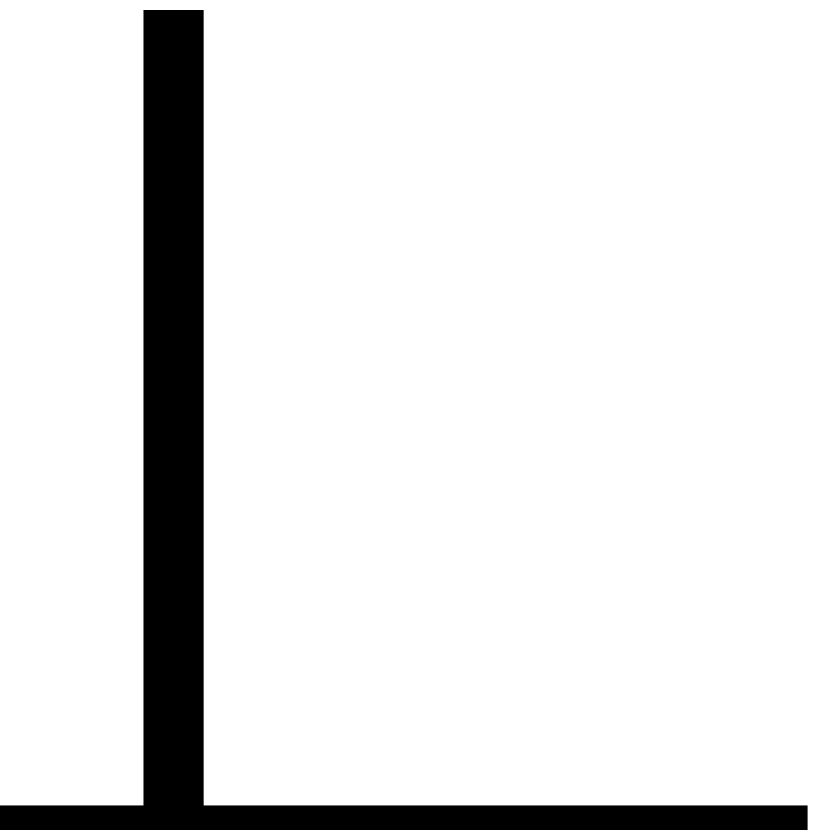
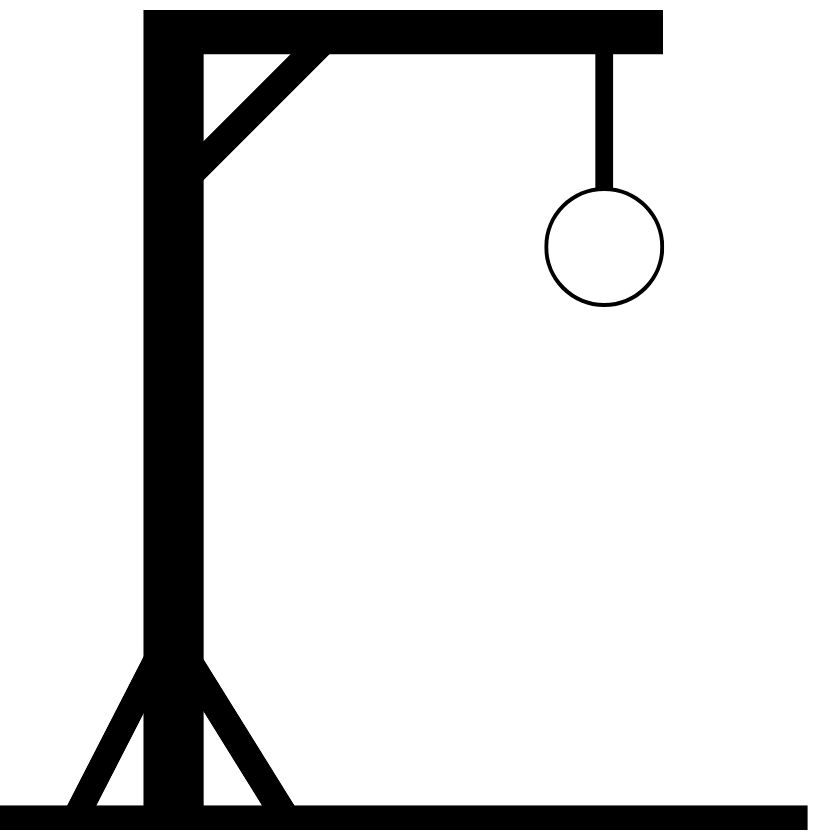
Version con los scripts

diff --git a/scripts/script.js b/scripts/script.js
@@ -1,0 +1,77 @@
+const hangmanImage = document.querySelector(".hangman-box img");
+const wordDisplay = document.querySelector(".word-display");
+const guessesText = document.querySelector(".guesses-text b");
+const keyboardDiv = document.querySelector(".keyboard");
+const gameModal = document.querySelector(".game-modal");
+const playAgainBtn = document.querySelector(".play-again");
+
+let currentWord, correctLetters, wrongGuessCount;
+const maxGuesses = 6;
+
+const resetGame = () => {
+  //Funcion que le hace reset al juego y su interfaz
+  correctLetters = [];
+  wrongGuessCount = 0;
+  hangmanImage.src = `imagenes/${wrongGuessCount + 1}.jpg`;
+  guessesText.innerText = `${wrongGuessCount} / ${maxGuesses}`;
+  keyboardDiv.querySelectorAll("button").forEach(btn => btn.disabled = false);
+  wordDisplay.innerHTML = currentWord.split("").map(() => '<li class="letter"></li>').join("");
+  gameModal.classList.remove("show");
+}
+
+const getRandomWord = () => {
+    //selecciones una palabras random con su pista de wordList
+    const{ word, hint } = wordList[Math.floor(Math.random() * wordList.length)];
+    currentWord = word;
+    console.log(word);
+    document.querySelector(".hint-text b").innerText = hint;
+    resetGame();
+}
+
+const gameOver = (isVictory) => {
+  // despues de 300ms de que se complete el juego, se muestra la info 
+  setTimeout(() => {
+    const modalText = isVictory ? `Encontraste la palabra:` : `La palabra correcta era:`;
+    gameModal.querySelector("img").src = `imagenes/${isVictory ? 'victoria' : 'derrota'}.gif`;
+    gameModal.querySelector("h4").innerText = `${isVictory ? 'Felicitaciones!' : 'Perdiste!'}`;
+    gameModal.querySelector("p").innerHTML = `${modalText} <b>${currentWord}</b>`;
+    gameModal.classList.add("show");
+  }, 300)
+}
+
+const initGame = (button, clickedLetter) => {
+    //Revisa si la letra seleccionada esta en la palabra
+  if(currentWord.includes(clickedLetter)) {
+    //Muestra las letras correctas en el display de la palabra
+    [...currentWord].forEach((letter, index) => {
+        if(letter === clickedLetter){
+          correctLetters.push(letter);
+            wordDisplay.querySelectorAll("li")[index].innerText = letter;
+            wordDisplay.querySelectorAll("li")[index].classList.add("guessed");
+        }
+    })
+  }
+  else{
+    //Si la letra no es correcta, muestra la siguiente imagen y suma 1 al contador.
+    wrongGuessCount++;
+    hangmanImage.src = `imagenes/${wrongGuessCount + 1}.jpg`;
+  }
+
+  button.disabled = true;
+  guessesText.innerText = `${wrongGuessCount} / ${maxGuesses}`;
+
+  //Funcion del GameOver
+  if(wrongGuessCount === maxGuesses) return gameOver(false);
+  if(correctLetters.length === currentWord.length) return gameOver(true);
+}
+
+//Crea los botones de las letras y tiene el event listener
+for (let index = 97; index <= 122; index++) {
+    const button = document.createElement("button");
+    button.innerText = String.fromCharCode(index); //Convierte valores Unicode a caracteres   
+    keyboardDiv.appendChild(button);
+    button.addEventListener("click", e => initGame(e.target, String.fromCharCode(index)))
+}
+
+getRandomWord(); 
+playAgainBtn.addEventListener("click", getRandomWord);

diff --git a/scripts/word-list.js b/scripts/word-list.js
@@ -1,0 +1,144 @@
+const wordList = [
+    {
+        word: "trueno",
+        hint: "Sonido fuerte tras un rayo.",
+    },
+    {
+        word: "cripta",
+        hint: "Camara subterranea en una iglesia.",
+    },
+    {
+        word: "ambar",
+        hint: "Resina fosil de color amarillo.",
+    },
+    {
+        word: "cefiro",
+        hint: "Viento suave y agradable.",
+    },
+    {
+        word: "limite",
+        hint: "Frontera o punto que no se puede pasar.",
+    },
+    {
+        word: "glaciar",
+        hint: "Gran masa de hielo en movimiento.",
+    },
+    {
+        word: "esencia",
+        hint: "Lo mas importante o caracteristico de algo.",
+    },
+    {
+        word: "oceano",
+        hint: "Gran extension de agua salada.",
+    },
+    {
+        word: "eclipse",
+        hint: "Ocultacion de un astro.",
+    },
+    {
+        word: "neon",
+        hint: "Gas noble usado en letreros luminosos.",
+    },
+    {
+        word: "lugubre",
+        hint: "Triste y sombrio.",
+    },
+    {
+        word: "metrica",
+        hint: "Medida de versos en poesia.",
+    },
+    {
+        word: "gondola",
+        hint: "Barca veneciana.",
+    },
+    {
+        word: "acuario",
+        hint: "Recipiente con agua para peces.",
+    },
+    {
+        word: "incienso",
+        hint: "Resina aromatica que se quema.",
+    },
+    {
+        word: "celeste",
+        hint: "Color azul claro.",
+    },
+    {
+        word: "ciclon",
+        hint: "Tormenta con vientos muy fuertes.",
+    },
+    {
+        word: "vertigo",
+        hint: "Sensacion de mareo.",
+    },
+    {
+        word: "coyote",
+        hint: "Canino del desierto americano.",
+    },
+    {
+        word: "folclore",
+        hint: "Tradiciones y costumbres de un pueblo.",
+    },
+    {
+        word: "jupiter",
+        hint: "El planeta mas grande del sistema solar.",
+    },
+    {
+        word: "etereo",
+        hint: "Muy ligero o delicado.",
+    },
+    {
+        word: "poker",
+        hint: "Juego de cartas con apuestas.",
+    },
+    {
+        word: "fertil",
+        hint: "Tierra que produce mucho.",
+    },
+    {
+        word: "citrico",
+        hint: "Fruto acido como el limon.",
+    },
+    {
+        word: "diamante",
+        hint: "Piedra preciosa muy dura.",
+    },
+    {
+        word: "sindrome",
+        hint: "Conjunto de sintomas.",
+    },
+
+    {
+        word: "epitome",
+        hint: "Resumen de una obra extensa.",
+    },
+    {
+        word: "anagrama",
+        hint: "Palabra formada al reordenar las letras de otra.",
+    },
+    {
+        word: "manifiesto",
+        hint: "Declaracion publica de principios.",
+    },
+    {
+        word: "estetica",
+        hint: "Relativo a la belleza.",
+    },
+    {
+        word: "nefrologo",
+        hint: "Medico especialista en rinones.",
+    },
+    {
+        word: "erudicion",
+        hint: "Conocimiento profundo.",
+    },
+    {
+        word: "cenit",
+        hint: "Punto mas alto en el cielo.",
+    },
+    {
+        word: "nayade",
+        hint: "Ninfa de agua dulce en la mitologia griega.",
+    },
+
+]

diff --git a/index.html b/index.html
@@ -6,6 +6,8 @@
     <meta name="viewport" content="width=device-width, initial-scale=1.0" />
     <title>El Ahorcado</title>
     <link rel="stylesheet" href="style.css" />
+    <script src="scripts/word-list.js" defer></script>
+    <script src="scripts/script.js" defer></script>
   </head>
   <body>
     <div class="game-dificulty">
@@ -34,33 +36,16 @@
       </div>
       <div class="game-box">
         <ul class="word-display">
-          <li class="letter"></li>
-          <li class="letter"></li>
-          <li class="letter guessed">a</li>
-          <li class="letter"></li>
-          <li class="letter"></li>
-          <li class="letter"></li>
-          <li class="letter"></li>
         </ul>
-        <h4 class="theme-text">
-          Tema:
-          <b>Lorem ipsum dolor sit amet consectetur adipisicing elit.</b>
+        <h4 class="hint-text">
+          Pista:
+          <b></b>
         </h4>
         <h4 class="guesses-text">
           Respuestas incorrectas:
-          <b>0 / 12</b>
+          <b>0 / 6</b>
         </h4>
-        <div class="keyboard">
-          <button>a</button><button>b</button><button>c</button
-          ><button>d</button> <button>e</button><button>f</button
-          ><button>g</button><button>h</button> <button>i</button
-          ><button>j</button><button>k</button><button>l</button>
-          <button>m</button><button>n</button><button>ñ</button
-          ><button>o</button> <button>p</button><button>q</button
-          ><button>r</button><button>s</button> <button>t</button
-          ><button>u</button><button>v</button><button>w</button>
-          <button>x</button><button>y</button><button>z</button>
-        </div>
+        <div class="keyboard"></div>
       </div>
     </div>
   </body>

diff --git a/style.css b/style.css
@@ -76,8 +76,6 @@ body {
 }
 .game-box .guesses-text b{
     color: #f00;
-   
-
 }
 /* las letras*/
 .game-box .keyboard {
@@ -86,6 +84,10 @@ body {
     margin-top: 40px;
     flex-wrap: wrap;
     justify-content: center;
+}
+.keyboard button[disabled]{
+    opacity: 0.6;
+    pointer-events: none;
 }
 :where(.game-modal, .keyboard, .dificulty-button) button {
     color: #fff;
@@ -115,10 +117,19 @@ body {
     top: 0;
     width: 100%;
     height: 100%;
-    display: none;
+    opacity: 0;
+    padding: 0 10px;
+    pointer-events: none;
+    z-index: 999;
+    display: flex;
     align-items: center;
     justify-content: center;
     background: rgba(0, 0, 0, 0.6);
+    transition: opacity 0.4s ease;
+}
+.game-modal.show{
+    opacity: 1;
+    pointer-events: auto;
 }
 .game-modal  .content {
     background: #fff;
